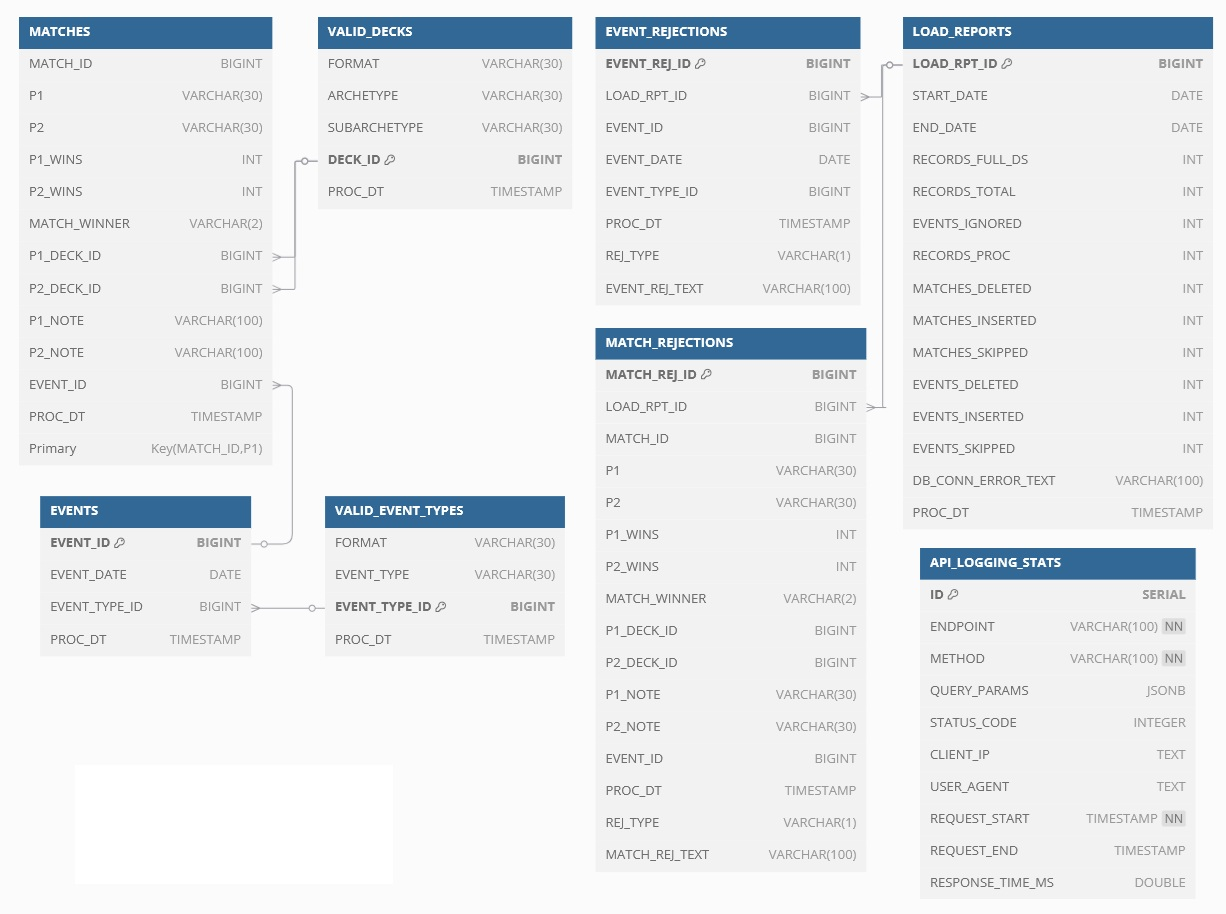
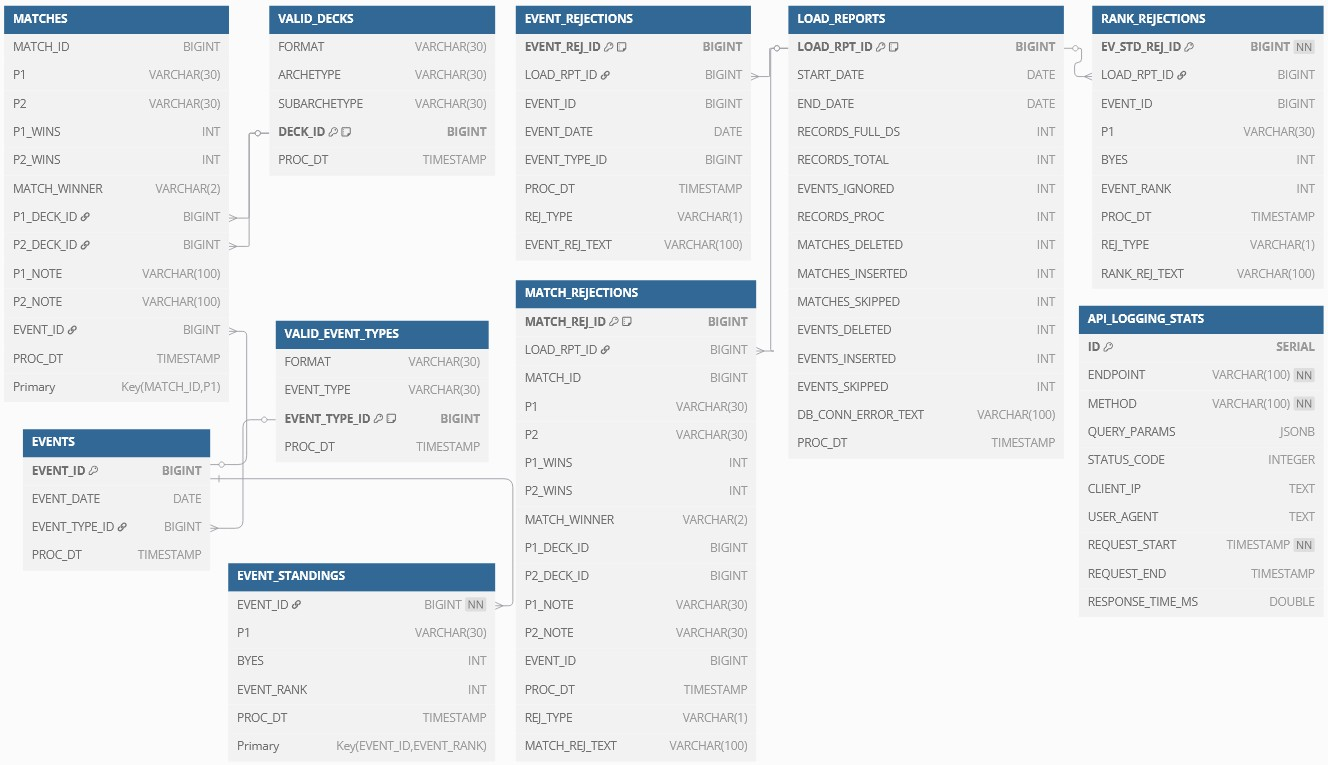
adding standings endpoints. updating erd graphic.

diff --git a/mtgo-vintage-metagame-api.py b/mtgo-vintage-metagame-api.py
@@ -306,7 +306,7 @@ def get_event_ranks(event_id):
     conn = get_db_connection()
     cursor = conn.cursor()
 
-    rank = request.args.get('rank', 1)
+    rank = request.args.get('rank', 0)
 
     try:
         rank = int(rank)
@@ -317,10 +317,66 @@ def get_event_ranks(event_id):
         return jsonify({"error": "Invalid URL Parameter Format."}), 400
     
     query = '''
-
+    SELECT e."EVENT_DATE", ves."EVENT_TYPE", es."EVENT_RANK", es."P1", a."WINS", a."LOSSES", es."BYES"
+    FROM "EVENTS" e 
+    JOIN "EVENT_STANDINGS" es 
+    ON es."EVENT_ID" = e."EVENT_ID"
+    JOIN "VALID_EVENT_TYPES" ves 
+    ON ves."EVENT_TYPE_ID" = e."EVENT_TYPE_ID"
+    JOIN 
+    (
+        SELECT "EVENT_ID", "P1", 
+            SUM(CASE WHEN "MATCH_WINNER" = 'P1' THEN 1 ELSE 0 END) AS "WINS", 
+            SUM(CASE WHEN "MATCH_WINNER" = 'P2' THEN 1 ELSE 0 END) AS "LOSSES"
+        FROM "MATCHES"
+        GROUP BY "EVENT_ID", "P1"
+    ) a
+    ON es."EVENT_ID" = a."EVENT_ID" AND es."P1" = a."P1"
+    WHERE es."EVENT_ID" = %s
     '''
 
-    cursor.execute(query, ())
+    if rank > 0:
+        query += ' AND es."EVENT_RANK" = %s'
+    query += ' ORDER BY es."EVENT_RANK" ASC'
+
+    if rank > 0:
+        cursor.execute(query, (event_id, rank))
+    else:
+        cursor.execute(query, (event_id, ))
+
+    column_names = [desc[0] for desc in cursor.description]
+    data = cursor.fetchall()
+    results = [dict(zip(column_names, row)) for row in data]
+
+    conn.close()
+    return jsonify(results)
+
+@app.route('/events/<int:event_id>/player/<string:P1>/', methods=['GET'], strict_slashes=False)
+def get_event_ranks_pid(event_id, P1):
+    conn = get_db_connection()
+    cursor = conn.cursor()
+   
+    query = '''
+    SELECT e."EVENT_DATE", ves."EVENT_TYPE", es."EVENT_RANK", es."P1", a."WINS", a."LOSSES", es."BYES"
+    FROM "EVENTS" e 
+    JOIN "EVENT_STANDINGS" es 
+    ON es."EVENT_ID" = e."EVENT_ID"
+    JOIN "VALID_EVENT_TYPES" ves 
+    ON ves."EVENT_TYPE_ID" = e."EVENT_TYPE_ID"
+    JOIN 
+    (
+        SELECT "EVENT_ID", "P1", 
+            SUM(CASE WHEN "MATCH_WINNER" = 'P1' THEN 1 ELSE 0 END) AS "WINS", 
+            SUM(CASE WHEN "MATCH_WINNER" = 'P2' THEN 1 ELSE 0 END) AS "LOSSES"
+        FROM "MATCHES"
+        GROUP BY "EVENT_ID", "P1"
+    ) a
+    ON es."EVENT_ID" = a."EVENT_ID" AND es."P1" = a."P1"
+    WHERE es."EVENT_ID" = %s AND es."P1" = %s
+    ORDER BY es."EVENT_RANK" ASC
+    '''
+
+    cursor.execute(query, (event_id, P1))
 
     column_names = [desc[0] for desc in cursor.description]
     data = cursor.fetchall()
